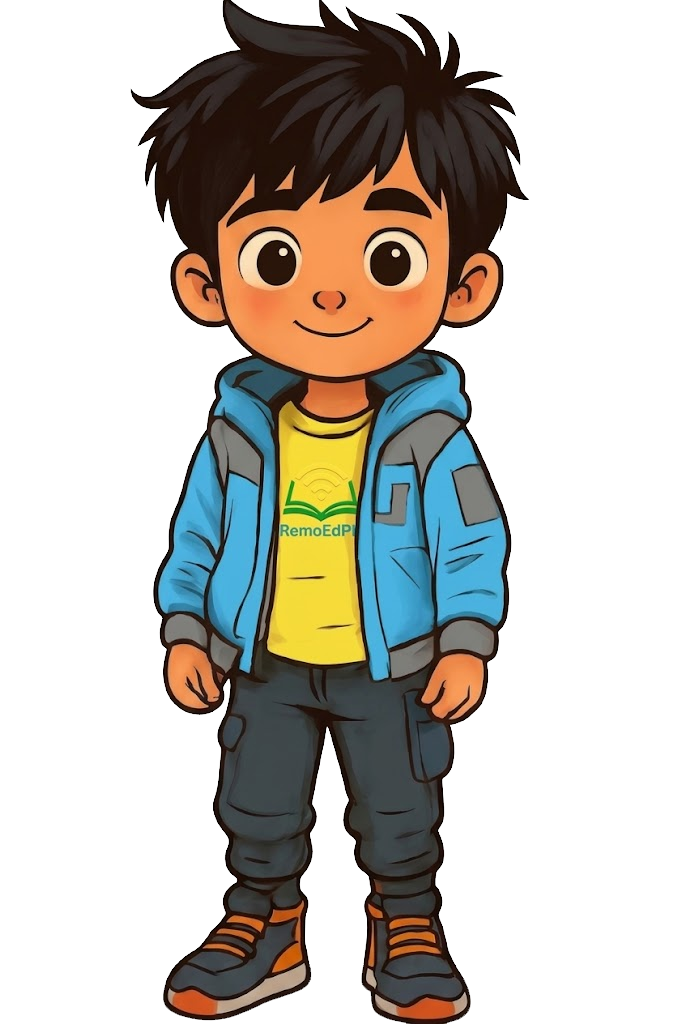
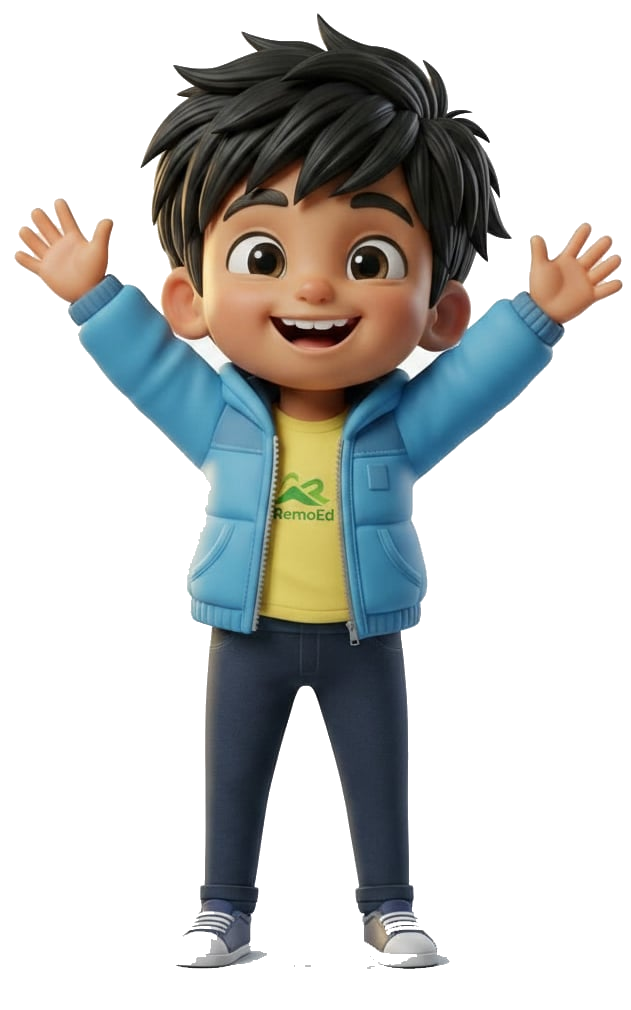
replace characters

diff --git a/public/index.html b/public/index.html
@@ -123,7 +123,7 @@
       referrerpolicy="no-referrer"
     />
     <link rel="stylesheet" href="/style.css" />
-    <link rel="stylesheet" href="/landing-brand.css" />
+    <link rel="stylesheet" href="/landing-brand.css?v=plan-badges-2" />
     <link rel="stylesheet" href="/css/site-i18n.css" />
   </head>
   <!-- Google tag (gtag.js) -->
@@ -173,10 +173,9 @@
             <div class="assessment-cta-wrap">
               <div class="assessment-cta-cluster">
                 <picture class="hero-mascot-picture hero-mascot-picture--ed">
-                  <source srcset="/images/ed-boy.webp" type="image/webp">
                   <img
                     src="/images/ed-boy.png"
-                    alt="Ed Mascot"
+                    alt="Ed, RemoEd student mascot"
                     class="mascot-img"
                     width="120"
                     height="120"
@@ -188,10 +187,9 @@
                   >Take Free Assessment</a
                 >
                 <picture class="hero-mascot-picture hero-mascot-picture--sophia">
-                  <source srcset="/images/sophia-girl.webp" type="image/webp">
                   <img
-                    src="/images/sophia-girl.png"
-                    alt="Sophia Mascot"
+                    src="/images/grace-teacher.png"
+                    alt="Grace, RemoEd teacher mascot"
                     class="mascot-img"
                     width="120"
                     height="120"
@@ -205,11 +203,11 @@
         </div>
         <div class="hero-media">
           <img
-            src="/images/hero-remoed-illustration.png"
-            alt="Educator using RemoEd on laptop, tablet, and online lessons"
+            src="/images/hero-remoed-family.png"
+            alt="RemoEdPH teacher and students with Remo mascot waving hello"
             class="hero-illustration"
-            width="640"
-            height="480"
+            width="960"
+            height="720"
             decoding="async"
             onerror="this.onerror=null;this.src='/images/forbidden-image.png'"
           />
@@ -353,8 +351,8 @@
             Hi! I'm Remo. Let's find the perfect level for you!
           </div>
           <img
-            src="/images/remo-jumping.png"
-            alt="Remo robot guide"
+            src="/images/remo-green.png"
+            alt="Remo, the RemoEd guide mascot"
             class="robot-float"
             width="300"
             height="300"
@@ -410,7 +408,7 @@
           <div class="plan-icon plan-icon--character">
             <img
               src="/images/plan-characters/plan-spark-robot.png"
-              alt="Remo robot mascot"
+              alt="Remo, RemoEd green mascot"
               width="112"
               height="110"
               decoding="async"
@@ -440,7 +438,7 @@
           <div class="plan-icon plan-icon--character">
             <img
               src="/images/plan-characters/plan-steady-boy.png"
-              alt="RemoEd student mascot"
+              alt="Ed, RemoEd student mascot"
               width="112"
               height="110"
               decoding="async"
@@ -467,14 +465,12 @@
         </div>
 
         <div class="plan-card plan-scholar plan-recommended">
-          <div class="plan-recommended-stack">
-            <div class="plan-recommended-ribbon">Recommended</div>
-            <div class="plan-badge">Save $126</div>
-          </div>
+          <div class="plan-recommended-ribbon">Recommended</div>
+          <div class="plan-badge">Save $126</div>
           <div class="plan-icon plan-icon--character">
             <img
               src="/images/plan-characters/plan-scholar-sophia.png"
-              alt="Sophia, RemoEd scholar mascot"
+              alt="Grace, RemoEd teacher mascot"
               width="112"
               height="110"
               decoding="async"
@@ -505,7 +501,7 @@
           <div class="plan-icon plan-icon--character">
             <img
               src="/images/plan-characters/plan-summit-sophia.png"
-              alt="Sophia celebrating, RemoEd mascot"
+              alt="Sofie, RemoEd student mascot"
               width="112"
               height="110"
               decoding="async"

diff --git a/public/landing-brand.css b/public/landing-brand.css
@@ -619,77 +619,71 @@ body.page-index #plans .plans-grid {
 body.page-index #plans .plan-card {
   min-width: 0;
   overflow: visible;
-  padding: 32px 16px 22px;
+  padding: 40px 16px 22px;
   box-sizing: border-box;
   background: #ffffff !important;
   backdrop-filter: none;
   -webkit-backdrop-filter: none;
+  display: flex;
+  flex-direction: column;
+  align-items: center;
 }
 
 /* Plan cards — RemoEd character art (PNGs with alpha; tray stays transparent) */
 body.page-index #plans .plan-icon.plan-icon--character {
   width: 100%;
   max-width: 120px;
-  height: 112px;
-  min-height: 112px;
-  margin-bottom: 10px;
-  padding: 2px 4px 0;
+  height: 120px;
+  min-height: 120px;
+  margin: 0 auto 12px;
+  padding: 0;
   overflow: visible;
   background: transparent !important;
   border: none !important;
   box-shadow: none;
   border-radius: 0;
+  flex: 0 0 120px;
+  display: flex;
+  align-items: flex-end;
+  justify-content: center;
 }
 
 body.page-index #plans .plan-icon.plan-icon--character img {
   width: 100%;
   height: 100%;
+  max-height: 120px;
   object-fit: contain;
   object-position: center bottom;
   display: block;
 }
 
-/* Scholar: gold ribbon + save badge stacked (badge under ribbon) */
-body.page-index #plans .plan-recommended-stack {
-  position: absolute;
-  top: 0;
-  left: 50%;
-  z-index: 6;
-  display: flex;
-  flex-direction: column;
-  align-items: center;
-  gap: 6px;
-  width: max-content;
-  max-width: calc(100% - 24px);
-  transform: translate(-50%, -32%);
-  pointer-events: none;
+/* Scholar: Recommended top-left; Save badge top-right — must not overlap */
+body.page-index #plans .plan-badge {
+  z-index: 7;
 }
 
-body.page-index #plans .plan-recommended-stack .plan-recommended-ribbon {
-  position: relative;
-  top: auto;
-  left: auto;
-  transform: none;
-}
-
-body.page-index #plans .plan-recommended-stack .plan-badge {
-  position: relative !important;
-  top: auto !important;
-  right: auto !important;
+body.page-index #plans .plan-card.plan-recommended > .plan-badge {
+  top: -15px !important;
+  right: 10px !important;
+  left: auto !important;
+  z-index: 7;
 }
 
 body.page-index #plans .plan-recommended-ribbon {
-  position: absolute;
-  top: 0;
-  left: 50%;
-  z-index: 5;
-  transform: translate(-50%, -46%);
-  padding: 8px 22px 10px;
+  position: absolute !important;
+  top: 10px !important;
+  left: 10px !important;
+  right: auto !important;
+  bottom: auto !important;
+  z-index: 6;
+  transform: none !important;
+  margin: 0 !important;
+  padding: 6px 12px !important;
   border-radius: 999px;
   font-family: "Quicksand", "Fredoka", "Segoe UI", sans-serif;
-  font-size: 0.78rem;
+  font-size: 0.65rem !important;
   font-weight: 800;
-  letter-spacing: 0.08em;
+  letter-spacing: 0.06em;
   text-transform: uppercase;
   color: #1f1608;
   background: linear-gradient(
@@ -707,6 +701,11 @@ body.page-index #plans .plan-recommended-ribbon {
     inset 0 1px 0 rgba(255, 255, 255, 0.65);
   text-shadow: 0 1px 0 rgba(255, 255, 255, 0.45);
   pointer-events: none;
+  max-width: 46%;
+  white-space: nowrap;
+  overflow: hidden;
+  text-overflow: ellipsis;
+  line-height: 1.2;
 }
 
 @media (prefers-reduced-motion: no-preference) {
@@ -727,7 +726,7 @@ body.page-index #plans .plan-recommended-ribbon {
 
 body.page-index #plans .plan-card.plan-scholar.plan-recommended {
   z-index: 3;
-  padding-top: 58px;
+  padding-top: 40px;
   border-color: rgba(179, 135, 40, 0.55) !important;
   box-shadow:
     0 16px 40px rgba(36, 49, 66, 0.12),
@@ -751,7 +750,7 @@ body.page-index #plans .plan-card.plan-scholar.plan-recommended:hover {
 @media (max-width: 1100px) {
   body.page-index #plans .plan-card.plan-scholar.plan-recommended {
     transform: none;
-    padding-top: 52px;
+    padding-top: 40px;
   }
 
   body.page-index #plans .plan-card.plan-scholar.plan-recommended:hover {
